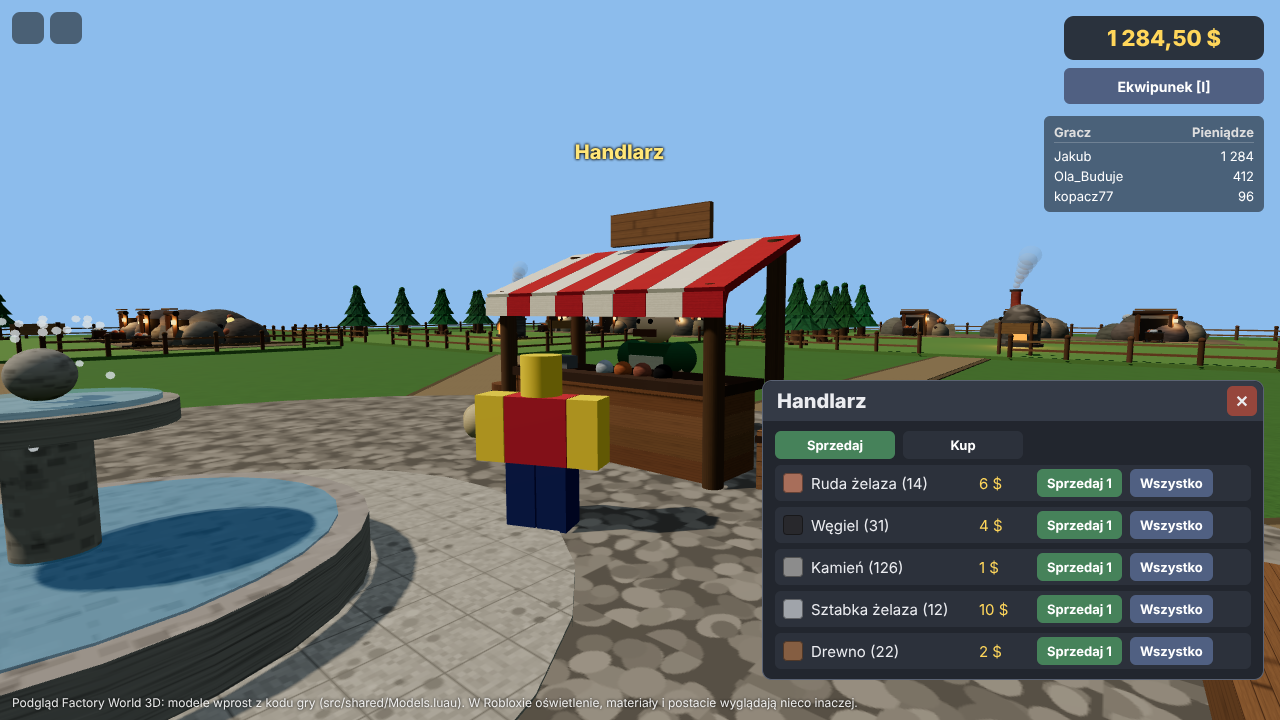
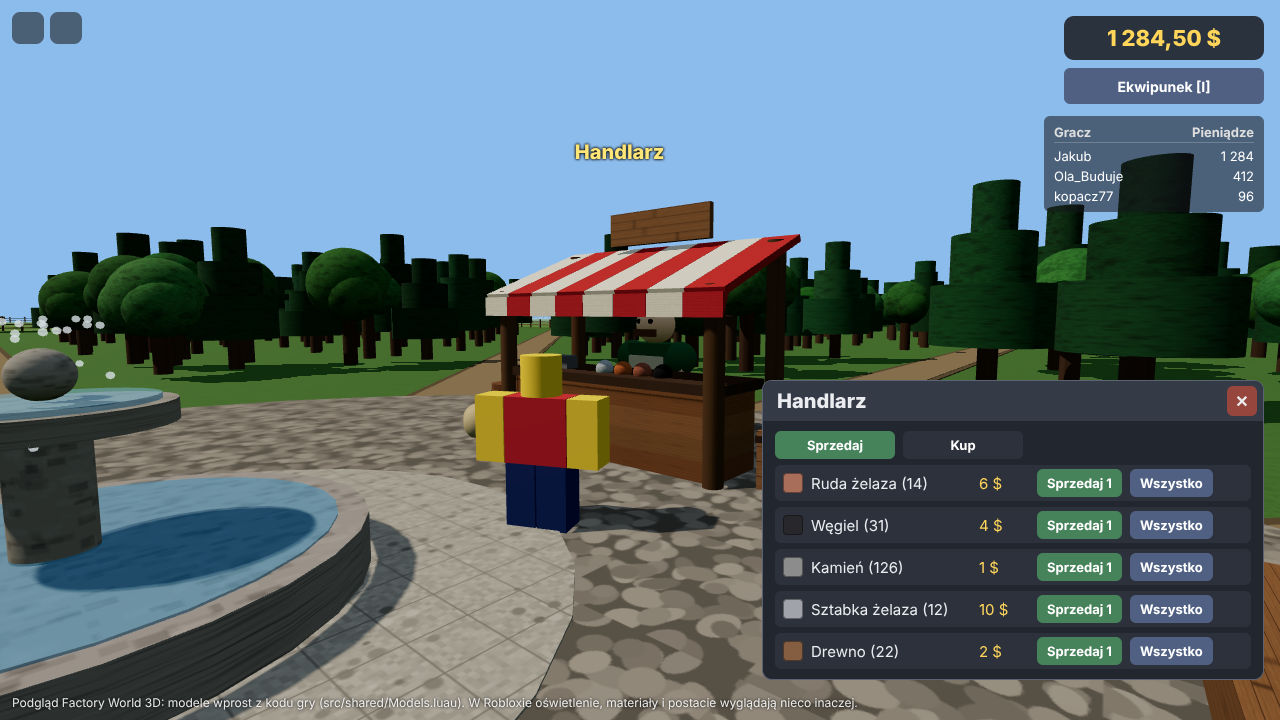
Enlarge plots to 232 x 232 with a 56 x 56 grid and grow a forest between them
Mines move to the plot's north edge and what players built moves with them
(layout 3, OldGrids for layouts 1 and 2). Plots stand farther from the square
(Ring 380) so a strip of forest fits between neighbours. The forest is a fixed,
seeded set of low-part trees built by World.PlantForest, with no prompts, kept
off plots, paths and the square. The preview opens a new page per scene.

Claude-Session: https://claude.ai/code/session_015q7rLHNJ66CFDjTGWXE1aJ

Changed region(s): [[0.0, 0.2139, 1.0, 0.55], [0.9688, 0.55, 1.0, 0.5806], [0.4688, 0.3361, 0.5, 0.3667]]

diff --git a/tools/preview/scene.js b/tools/preview/scene.js
@@ -17,7 +17,7 @@ const block = (size, pos, color, material, yaw = 0) => ({ shape: "Block", size, 
 
 function square() {
   const objects = [];
-  const big = 2 * L.Ring + L.Size + 80;
+  const big = 2 * lua.call("PlotLayout.GroundHalf()");
   objects.push({ at: [0, 0, 0], parts: [
     block([big, 2, big], [0, -1.5, 0], [92, 136, 66], "Grass"),
     cyl(1, 64, [0, -0.45, 0], [168, 160, 148], "Cobblestone"),
@@ -42,6 +42,14 @@ function square() {
     ] });
   }
   return objects;
+}
+
+// The forest between the plots (World.PlantForest); `near` = [x, z, radius] keeps only the trees
+// around that point, to spare the browser.
+function forest(near) {
+  const trees = lua.call("PlotLayout.ForestTrees()");
+  return trees.filter((t) => !near || Math.hypot(t.x - near[0], t.z - near[1]) < near[2])
+    .map((t) => ({ at: [t.x, 0, t.z], yaw: t.yaw, parts: lua.call(`Models.ForestTree(${t.seed})`) }));
 }
 
 // One plot as the server puts it together (Plots.buildPlot, Grid): `opts` says which wild trees
@@ -80,20 +88,20 @@ function views() {
   const out = {};
   // 1. The square and all plots from above.
   {
-    let objects = square();
+    let objects = square().concat(forest());
     for (let i = 1; i <= L.Count; i++) objects = objects.concat(plot(i, { furnaces: ["lit", i % 2 ? "lit" : "cold", i % 3 ? "cold" : null], cut: i % 2 ? [1, 4] : [] }).objects);
-    out["1-plac-i-dzialki"] = { objects, camera: { pos: [120, 190, 250], look: [0, 0, 10], fov: 60 }, shadowRadius: 260, fog: [400, 900], hud: "1 284,50 $", caption,
+    out["1-plac-i-dzialki"] = { objects, camera: { pos: [330, 560, 820], look: [0, 0, 60], fov: 60 }, shadowRadius: 700, fog: [1100, 2400], hud: "1 284,50 $", caption,
       labels: [{ at: [L.Stall.x, 14, L.Stall.z], text: "Handlarz", color: "#ffe678", size: 15 }] };
   }
   // 2. Mining on the player's plot.
   {
     const p = plot(1, { furnaces: ["lit", "lit", "cold"], cut: [0, 5] });
-    const objects = square().concat(p.objects, plot(2, { furnaces: ["lit"] }).objects, plot(8, { furnaces: ["cold", "cold"] }).objects);
     const { cx, cz } = p;
-    out["2-kopanie-na-dzialce"] = { objects, camera: { pos: [cx + 11, 13, cz - 2], look: [cx - 1, 3, cz - 26] }, shadowRadius: 70, hud: "1 284,50 $", caption,
-      avatars: [{ at: [cx + 0.5, 0, cz - 15.5], yaw: Math.PI, shirt: [200, 60, 60], pose: -1.9 }],
-      labels: [{ at: [cx + 0, 13, cz - 32], text: "Kopalnia 37/50" }, { at: [cx - 25, 13, cz - 30], text: "Kopalnia 50/50" }],
-      prompts: [{ at: [cx + 5, 8, cz - 19], action: "Kop", object: "Kopalnia", progress: 0.62 }],
+    const objects = square().concat(p.objects, forest([cx, cz - 100, 220]));
+    out["2-kopanie-na-dzialce"] = { objects, camera: { pos: [cx + 11, 13, cz - 72], look: [cx - 1, 3, cz - 96] }, shadowRadius: 70, hud: "1 284,50 $", caption,
+      avatars: [{ at: [cx + 0.5, 0, cz - 85.5], yaw: Math.PI, shirt: [200, 60, 60], pose: -1.9 }],
+      labels: [{ at: [cx + 0, 13, cz - 102], text: "Kopalnia 37/50" }, { at: [cx - 25, 13, cz - 100], text: "Kopalnia 50/50" }],
+      prompts: [{ at: [cx + 5, 8, cz - 89], action: "Kop", object: "Kopalnia", progress: 0.62 }],
       overlay: `<div class="toast">+1 Kamień, +1 Ruda żelaza</div>` };
   }
   // 3. Furnaces with the furnace window.
@@ -101,8 +109,8 @@ function views() {
     const p = plot(1, { furnaces: ["lit", "lit", "cold", "lit"], cut: [5] });
     const objects = square().concat(p.objects);
     const { cx, cz } = p;
-    out["3-piec"] = { objects, camera: { pos: [cx + 6, 9, cz + 31], look: [cx + 17, 3, cz + 14] }, shadowRadius: 50, hud: "1 284,50 $", caption,
-      avatars: [{ at: [cx + 13, 0, cz + 22], yaw: Math.PI + 0.3, shirt: [200, 60, 60] }],
+    out["3-piec"] = { objects, camera: { pos: [cx + 6, 9, cz - 39], look: [cx + 17, 3, cz - 56] }, shadowRadius: 50, hud: "1 284,50 $", caption,
+      avatars: [{ at: [cx + 13, 0, cz - 48], yaw: Math.PI + 0.3, shirt: [200, 60, 60] }],
       overlay: `<div class="win" style="width:440px;right:16px;bottom:40px"><div class="hd">Piec kamienny<span class="x">✕</span></div><div class="bd">
         <div>Ruda: Ruda żelaza × 23 / 50</div><div>Węgiel: 4 / 50 &nbsp; (żar na 3 szt.)</div><div><b>Gotowe: Sztabka żelaza × 12</b></div>
         <div class="bar"><i style="width:64%"></i></div><div class="muted">Włóż z ekwipunku:</div>
@@ -113,7 +121,7 @@ function views() {
   }
   // 4. The merchant's square.
   {
-    let objects = square();
+    let objects = square().concat(forest([0, 0, 160]));
     for (let i = 1; i <= L.Count; i++) objects = objects.concat(plot(i, { furnaces: ["lit"] }).objects);
     const rows = [["168,110,90", "Ruda żelaza (14)", "6 $"], ["40,40,44", "Węgiel (31)", "4 $"], ["140,140,140", "Kamień (126)", "1 $"], ["160,164,170", "Sztabka żelaza (12)", "10 $"], ["133,94,66", "Drewno (22)", "2 $"]];
     out["4-handlarz"] = { objects, camera: { pos: [17, 6.5, 1], look: [2, 4.5, -17] }, shadowRadius: 60, hud: "1 284,50 $", caption,
@@ -152,7 +160,7 @@ function views() {
     const { cx, cz } = p;
     const state = lua.call(`(function()
       local o, n = {}, 0
-      local function add(kind, x, z, rot) n = n + 1; local obj = Logistics.New(n, kind, x + 5, z + 7, rot); table.insert(o, obj); return obj end
+      local function add(kind, x, z, rot) n = n + 1; local obj = Logistics.New(n, kind, x + 22, z + 7, rot); table.insert(o, obj); return obj end
       local a = add(Items.WoodenChest, 1, 1, 1)
       Logistics.Store(a.items, Items.IronOre, 40); Logistics.Store(a.items, Items.Coal, 10)
       add(Items.Inserter, 2, 1, 1)
@@ -168,7 +176,7 @@ function views() {
       for x = 6, 8 do add(Items.Belt, x, 4, 1) end
       add(Items.Inserter, 9, 4, 1)
       add(Items.WoodenChest, 10, 4, 1)
-      local furnace = { id = 99, tile = { x = 14, z = 8 }, rot = 0, state = Smelting.Empty() }
+      local furnace = { id = 99, tile = { x = 31, z = 8 }, rot = 0, state = Smelting.Empty() }
       local bends = Logistics.Bends(o)
       Logistics.Run(o, { furnace }, 0, 41.4)
       for _, obj in ipairs(o) do obj.bend = bends[obj.id] end
@@ -204,7 +212,7 @@ function views() {
     const [fx, fz] = tileAt(state.furnace.x, state.furnace.z, 2);
     objects.push({ at: [cx + fx, 0, cz + fz], yaw: Math.PI, parts: lua.call("Models.Furnace(true)"), lit: state.lit });
     // The see-through ghost of the next belt under the pointer.
-    const [gx, gz] = tileAt(19, 9, 1);
+    const [gx, gz] = tileAt(36, 9, 1);
     const ghost = models.logistics_inserter.map((q) => ({ ...q, transparency: 0.3 })).concat(lua.call("Models.BuildMarker(Items.Inserter, PlotLayout.Grid.tile)"));
     objects.push({ at: [cx + gx, 0, cz + gz], yaw: yaws[1], parts: ghost });
     // The grid's lines, which the player sees while building (BuildBar.showLines).
@@ -214,7 +222,7 @@ function views() {
     for (let i = 0; i <= G.depth; i++) lines.push({ shape: "Block", size: [w, 0.05, 0.12], pos: [G.x + w / 2, 0.08, G.z + i * G.tile], rot: [0, 0, 0], color: [255, 255, 255], material: "SmoothPlastic", transparency: 0.55 });
     objects.push({ at: [cx, 0, cz], parts: lines });
     const btn = (t, on) => `<span class="btn${on ? "" : " alt"}" style="width:128px;text-align:center;white-space:nowrap;font-size:12px">${t}</span>`;
-    out["6-budowanie"] = { objects, camera: { pos: [cx + 6, 34, cz + 24], look: [cx + 4, 0, cz - 2], fov: 55 }, shadowRadius: 60, hud: "1 284,50 $", caption,
+    out["6-budowanie"] = { objects, camera: { pos: [cx + 6, 34, cz - 46], look: [cx + 4, 0, cz - 72], fov: 55 }, shadowRadius: 60, hud: "1 284,50 $", caption,
       overlay: `<div class="win" style="left:50%;transform:translateX(-50%);bottom:16px;width:960px"><div class="bd" style="padding-top:10px">
         <div style="display:flex;gap:6px">${btn("Taśmociąg (6)")}${btn("Podajnik (2)", true)}${btn("Drewniana skrzynia (1)")}${btn("Piec kamienny (0)")}${btn("Sadzonka (3)")}<span class="btn red">Rozbiórka [X]</span><span class="btn alt">Obróć [R]</span></div>
         <div class="muted" style="margin-top:8px">Kliknij, by postawić. Przeciągnij, by ułożyć taśmę (skręca razem z ruchem). 1–5 wybór, R obrót, X rozbiórka, B koniec.</div>
@@ -226,17 +234,19 @@ function views() {
 async function shoot() {
   const { chromium } = require("playwright");
   const browser = await chromium.launch({ args: ["--use-gl=angle", "--use-angle=swiftshader", "--enable-unsafe-swiftshader"] });
-  const page = await browser.newPage({ viewport: { width: 1280, height: 720 } });
-  page.on("pageerror", (e) => console.log("page error:", e.message));
-  await page.route("**/three.min.js", (route) => route.fulfill({ path: path.join(path.dirname(require.resolve("three")), "three.min.js"), contentType: "text/javascript" }));
   const out = path.join(__dirname, "../../docs/screenshots");
   fs.mkdirSync(out, { recursive: true });
   for (const [name, scene] of Object.entries(views())) {
+    // A new page for each scene: init scripts stay on a page and would all run again.
+    const page = await browser.newPage({ viewport: { width: 1280, height: 720 } });
+    page.on("pageerror", (e) => console.log("page error:", e.message));
+    await page.route("**/three.min.js", (route) => route.fulfill({ path: path.join(path.dirname(require.resolve("three")), "three.min.js"), contentType: "text/javascript" }));
     await page.addInitScript((s) => { window.SCENE = s; }, scene);
-    await page.goto("file://" + path.join(__dirname, "index.html"));
+    await page.goto("file://" + path.join(__dirname, "index.html"), { timeout: 120000 });
     await page.waitForFunction(() => document.title === "ready", null, { timeout: 120000 });
     await page.screenshot({ path: path.join(out, name + ".png") });
     console.log("saved", name);
+    await page.close();
   }
   await browser.close();
 }

diff --git a/README.md b/README.md
@@ -17,7 +17,7 @@ Zrzuty pochodzą z podglądu w przeglądarce (`tools/preview/`), który rysuje d
 | Etap | Zawartość | Stan |
 | --- | --- | --- |
 | 1. Rdzeń | Plac z handlarzem i stołem warsztatowym, działka 3D dla każdego gracza (8 na serwer), 3 kopalnie (kilof, 5 s, do 2 rud, 50 urobków, 10 min na odnowienie), 8 dzikich sosen (siekiera, 5 s, 1 drewno), piec kamienny (węgiel, 5 wytopów z jednej bryłki, liczy się sam, gdy gracza nie ma), stół warsztatowy (piec z 20 kamieni, gwoździe), ekwipunek, portfel w centach z księgą operacji, zapis postępu w DataStore | gotowe |
-| 2. Logistyka | Siatka budowania na całej działce (22 × 21 pól po 4 study; wszystko na działce stoi na jej polach), tryb budowania (stawianie, obracanie, rozbiórka, linie siatki widoczne tylko przy budowaniu), taśmociągi (2 pasy, zakręty, dołączanie z boku, przeciąganie skręca taśmę), podajniki, drewniane skrzynie (8 miejsc po 100 szt.), piec na siatce karmiony podajnikami, drzewa jak w 2D (ścięte znika, 30% na sadzonkę, sadzonka rośnie 10 min), nowe przepisy na stole (taśmociąg ×4, podajnik, skrzynia) | gotowe |
+| 2. Logistyka | Działka 232 × 232 study z siatką budowania na całości (56 × 56 pól po 4 study; wszystko na działce stoi na jej polach), tryb budowania (stawianie, obracanie, rozbiórka, linie siatki widoczne tylko przy budowaniu), taśmociągi (2 pasy, zakręty, dołączanie z boku, przeciąganie skręca taśmę), podajniki, drewniane skrzynie (8 miejsc po 100 szt.), piec na siatce karmiony podajnikami, drzewa jak w 2D (ścięte znika, 30% na sadzonkę, sadzonka rośnie 10 min), nowe przepisy na stole (taśmociąg ×4, podajnik, skrzynia), gęsty las między działkami i wokół placu (tylko ozdoba, nie da się go ściąć ani w nim budować; ścieżki do bram wolne) | gotowe |
 | 3. Przetwórstwo | Maszyny przetwórcze, więcej przepisów, drzewko badań | następny |
 | 4. Handel | Rynek między graczami (wszystkie serwery), wydarzenia rynkowe | |
 | 5. Świat | Prąd, pociągi, spółki, mapa świata, lepsze modele z Blendera | |
@@ -51,7 +51,7 @@ pole przed sobą. Skrzynię i piec otwiera **E**.
 | Miejsce | Zawartość |
 | --- | --- |
 | `src/shared/` (`ReplicatedStorage.Shared`) | Czyste zasady gry bez API Robloxa: `Items` (id jak w `Contracts/Items.cs`, nazwy, kolory), `Prices`, `Mining`, `Forestry`, `Smelting`, `Workshop`, `Logistics` (siatka, taśmy, podajniki, skrzynie, jak `Simulation.cs`), `PlotLayout`, `Money`, `Remotes`, `Assemble` (składa model z części, dla serwera i ducha budowania u klienta), a także `Models`: każdy obiekt (kopalnia, sosna, piec, stół, stragan, handlarz, fontanna, płot, ozdoby działki) jako lista części z kształtem (kula, walec, klin, prostopadłościan), materiałem, kolorem i efektami (ogień, dym, światło) |
-| `src/server/` (`ServerScriptService.Server`) | `Main` uruchamia usługi z `Services/`: `Data` (DataStore z blokadą sesji i autozapisem), `Wallet`, `Inventory`, `Net` (zdalne wywołania, limit 20 na sekundę, sprawdzanie danych), `World` (plac), `Plots` (działki, kopanie), `Furnaces`, `Factory` (liczy siatkę do teraz), `Grid` (budowanie, ścinanie i sadzenie drzew, skrzynie, stan taśm i ramion dla klienta), `Merchant`, `Workshop`, `Build` (zamienia `Models` w części Robloxa) |
+| `src/server/` (`ServerScriptService.Server`) | `Main` uruchamia usługi z `Services/`: `Data` (DataStore z blokadą sesji i autozapisem), `Wallet`, `Inventory`, `Net` (zdalne wywołania, limit 20 na sekundę, sprawdzanie danych), `World` (plac i las), `Plots` (działki, kopanie), `Furnaces`, `Factory` (liczy siatkę do teraz), `Grid` (budowanie, ścinanie i sadzenie drzew, skrzynie, stan taśm i ramion dla klienta), `Merchant`, `Workshop`, `Build` (zamienia `Models` w części Robloxa) |
 | `src/client/` (`StarterPlayerScripts.Client`) | `Main`, `Game` (stan gracza, wywołania serwera, polskie teksty błędów), `GridView` (płynny ruch taśm i ramion podajników), `Ui/` (HUD, ekwipunek, handlarz, piec, stół, skrzynia, pasek budowania) |
 | `tests/` | Testy zasad z `src/shared` i sprawdzenie składni wszystkich plików: `npm install`, potem `npm test` (Lua 5.3 w Node, bez Robloxa) |
 | `tools/preview/` | Podgląd 3D w przeglądarce (three.js): `scene.js` uruchamia `Models.luau` i `PlotLayout.luau` w Node i składa z nich plac i działki tak jak serwer, a potem robi zrzuty do `docs/screenshots` (`npm run preview`, wymaga Chromium z Playwright) |
